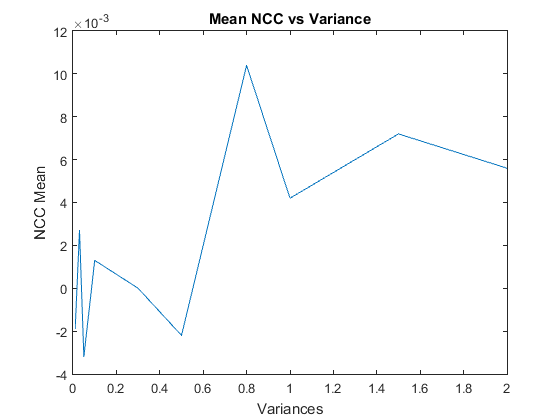
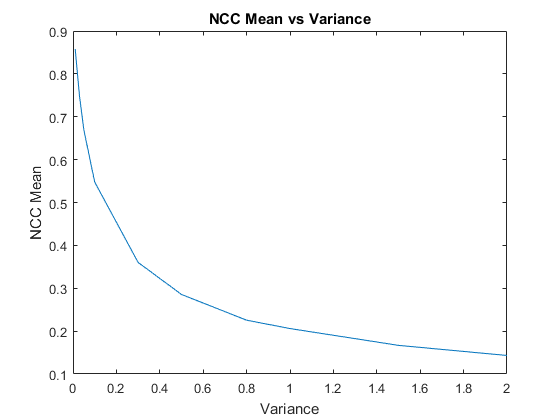
added graphs for NCC and SSD

diff --git a/graph.m b/graph.m
@@ -1,40 +1,61 @@
-results_ssd =[ 110036569,    98640554,    92604025,    82202060,    67089842,    61694481,    57588179,   56837344,    54916413,    54168017; ...
-   113331315,   103103808,    97623526,    88803791,    75968522,    71632722,    69154984,    67583681,    66780853,    65426009; ...
-   146083936,   133300133,   126362189,   113896022,    94499773,    86562254,    80073177,    78240957,    75178932,    73582730; ...
-   128164791,   115932357,   109537195,    98136540,    81253643,    76277694,    70006058,    69515817,    68135358,    66270694; ...
-   113767466,   102857969,    97337268,    87596524,    73515844,    69125250,    65146619,    64394892,    62007420,    61814247; ...
-   124831813,   112801204,   106917001,    96084150,    80330271,    75719233,    69640070,    69408467,    67017130,    66585480; ...
-   118692241,   107853087,   102147197,    93086939,    79507830,    75890428,    70645532,    70728295,    69350446,    69310946; ...
-    93893742,    84171276,    79211401,    72280010,    64863229,    64664851,    62645915,    65614528,    66499595,    67898969; ...
-   120502403,   109500632,   103604723,    94167464,    80515000,    76447471,    71905677,    73184214,    72246174,    70883743; ...
-   177541720,   162509913,   154315792,   139520153,   114950619,   105871711,    95650961,    93946775,    89513409,    86528508; ...
-   122465782,   111556564,   105871035,    96539112,    84269858,    81748937,    78727350,    80788323,    82027032,    78308633; ...
-   155538764,   141982813,   134587612,   121367304,    99830170,    91247908,    83048671,    82611888,    77101286,    74271991; ...
-   138934018,   126436801,   119486190,   107659494,    88667296,    81204698,    75283301,    74929588,    70524804,    68029243;]
-
-
-
-results_ncc =[0.0081,    0.0093,   -0.0118,    0.0071,   -0.0032,    0.0096,   -0.0033,    0.0117,    0.0147,   -0.0053,
-   -0.0008    0.0066    0.0061    0.0032   -0.0029    0.0027   -0.0117    0.0143    0.0086    0.0111
-    0.0084   -0.0040   -0.0089    0.0060   -0.0043    0.0180    0.0061    0.0232    0.0136   -0.0003
-    0.0011    0.0031   -0.0097    0.0019    0.0035   -0.0141    0.0140    0.0113   -0.0104   -0.0019
-    0.0099    0.0142   -0.0034    0.0038    0.0015   -0.0010    0.0029    0.0117    0.0324    0.0104
-   -0.0185    0.0243   -0.0099    0.0040    0.0012   -0.0104    0.0211    0.0172    0.0253    0.0090
-   -0.0320    0.0025    0.0064   -0.0045   -0.0011   -0.0142    0.0203    0.0138    0.0165   -0.0037
-   -0.0127    0.0003    0.0105   -0.0106   -0.0125   -0.0160    0.0285   -0.0083    0.0112   -0.0019
-   -0.0022   -0.0034   -0.0062   -0.0156   -0.0127   -0.0071    0.0166   -0.0098   -0.0092   -0.0007
-    0.0106    0.0027   -0.0047    0.0068    0.0113   -0.0146    0.0155    0.0163   -0.0089    0.0025
-    0.0026   -0.0074   -0.0050   -0.0029    0.0058   -0.0035    0.0140   -0.0141   -0.0281    0.0192
-    0.0035   -0.0024   -0.0057    0.0116    0.0059    0.0045    0.0105   -0.0167    0.0154    0.0156
-   -0.0024   -0.0104    0.0013    0.0059    0.0078    0.0173    0.0013   -0.0160    0.0129    0.0188
+% results_ssd =
+% 
+%      2985069     7036005    10506954    16822822    29297834    33876049    38163955    39342694    42045871    44377411
+%      6055873     9333676    12306502    18440705    30338800    38455398    44393443    44642662    49005617    51849938
+%      8888680    12482635    15560002    21176556    35207422    40841975    45201968    45889384    51419063    53120258
+%      5787400     9850093    12929194    20367237    34171577    40016489    43740790    45575097    49901926    52281558
+%      7208039    10646070    13154879    18954559    31269338    35864196    41157060    44660574    48074673    49478536
+%      9664885    13530976    16758145    22726034    34060824    39781259    45302169    47543701    50346891    52288394
+%      6572201     9614066    13241698    18915232    33112716    39365058    44763277    47122599    51792068    54717375
+%     15600333    19024454    21754626    28538937    41346020    48966152    55180107    56687126    61393667    64873963
+%      8210974    12224628    15353824    22274198    36266464    42922269    49265450    50687212    55738646    57696640
+%     16191189    19614567    22365361    28361614    41079617    46681770    51014684    53236359    55988501    60088248
+%      7687680    11591267    15290092    22751080    37808192    47833485    55820474    57316805    62304038    66578751
+%      8659952    12136932    15211699    22469797    34096310    39826272    45181851    46304950    49824921    51437806
+%      6376648    10079008    13926132    20183082    33336900    38262037    42677466    44799964    48456120    50264801
+% 
+% 
+% results_ncc =
+% 
+%     0.7531    0.5811    0.4842    0.3719    0.2180    0.1757    0.1465    0.1355    0.1027    0.0903
+%     0.9220    0.8331    0.7629    0.6410    0.4434    0.3258    0.2563    0.2659    0.2050    0.1900
+%     0.8869    0.7714    0.6963    0.5664    0.3660    0.2951    0.2415    0.2236    0.1705    0.1388
+%     0.8725    0.7353    0.6403    0.5028    0.3174    0.2463    0.2084    0.1876    0.1523    0.1209
+%     0.9067    0.8100    0.7373    0.6116    0.3935    0.3297    0.2538    0.2139    0.1691    0.1546
+%     0.8192    0.7162    0.6418    0.5266    0.3613    0.2900    0.2235    0.1988    0.1614    0.1359
+%     0.9279    0.8460    0.7692    0.6564    0.4365    0.3540    0.2770    0.2452    0.2005    0.1567
+%     0.6790    0.5998    0.5444    0.4392    0.2892    0.2276    0.1791    0.1703    0.1236    0.1135
+%     0.8712    0.7712    0.7001    0.5736    0.3770    0.3024    0.2315    0.2256    0.1860    0.1622
+%     0.8535    0.7531    0.6831    0.5699    0.3813    0.2993    0.2357    0.2004    0.2016    0.1627
+%     0.9131    0.8365    0.7713    0.6547    0.4581    0.3510    0.2779    0.2646    0.2124    0.1794
+%     0.8672    0.7381    0.6436    0.5051    0.3220    0.2569    0.2058    0.1765    0.1423    0.1296
+%     0.8823    0.7340    0.6263    0.4995    0.3184    0.2575    0.1945    0.1701    0.1404    0.1274
 
 var = [0.01,0.03,0.05,0.1,0.3,0.5,0.8,1.0,1.5,2.0]
 
-results_mean_ssd = [1.2798*1.0e+08, 1.1620*1.0e+08, 1.0997*1.0e+08, ...
-                    0.9933*1.0e+08, 0.8348*1.0e+08, 0.7831*1.0e+08, ...
-                    0.7304*1.0e+08, 0.7291*1.0e+08, 0.7087*1.0e+08, 0.6947*1.0e+08]
+results_mean_ssd = [0.8453*1.0e+07, ...
+    1.2090*1.0e+07, ...
+    1.5258*1.0e+07, ...
+    2.1691*1.0e+07, ...
+    3.4722*1.0e+07, ...
+    4.0976*1.0e+07, ...
+    4.6297*1.0e+07, ...
+    4.7985*1.0e+07, ...
+    5.2022*1.0e+07, ...
+    5.4543*1.0e+07]
 
-results_mean_ncc = [-0.0019, 0.0027, -0.0032, 0.0013, 0.0000, -0.0022, 0.0104, 0.0042, 0.0072, 0.0056]
+
+results_mean_ncc =[0.8581, ...
+    0.7482, ...
+    0.6693, ...
+    0.5476, ...
+    0.3602, ...
+    0.2855, ...
+    0.2255, ...
+    0.2060, ...
+    0.1668, ...
+    0.1432]
+
 
 x = var(:);
 y = results_mean_ssd(:);
